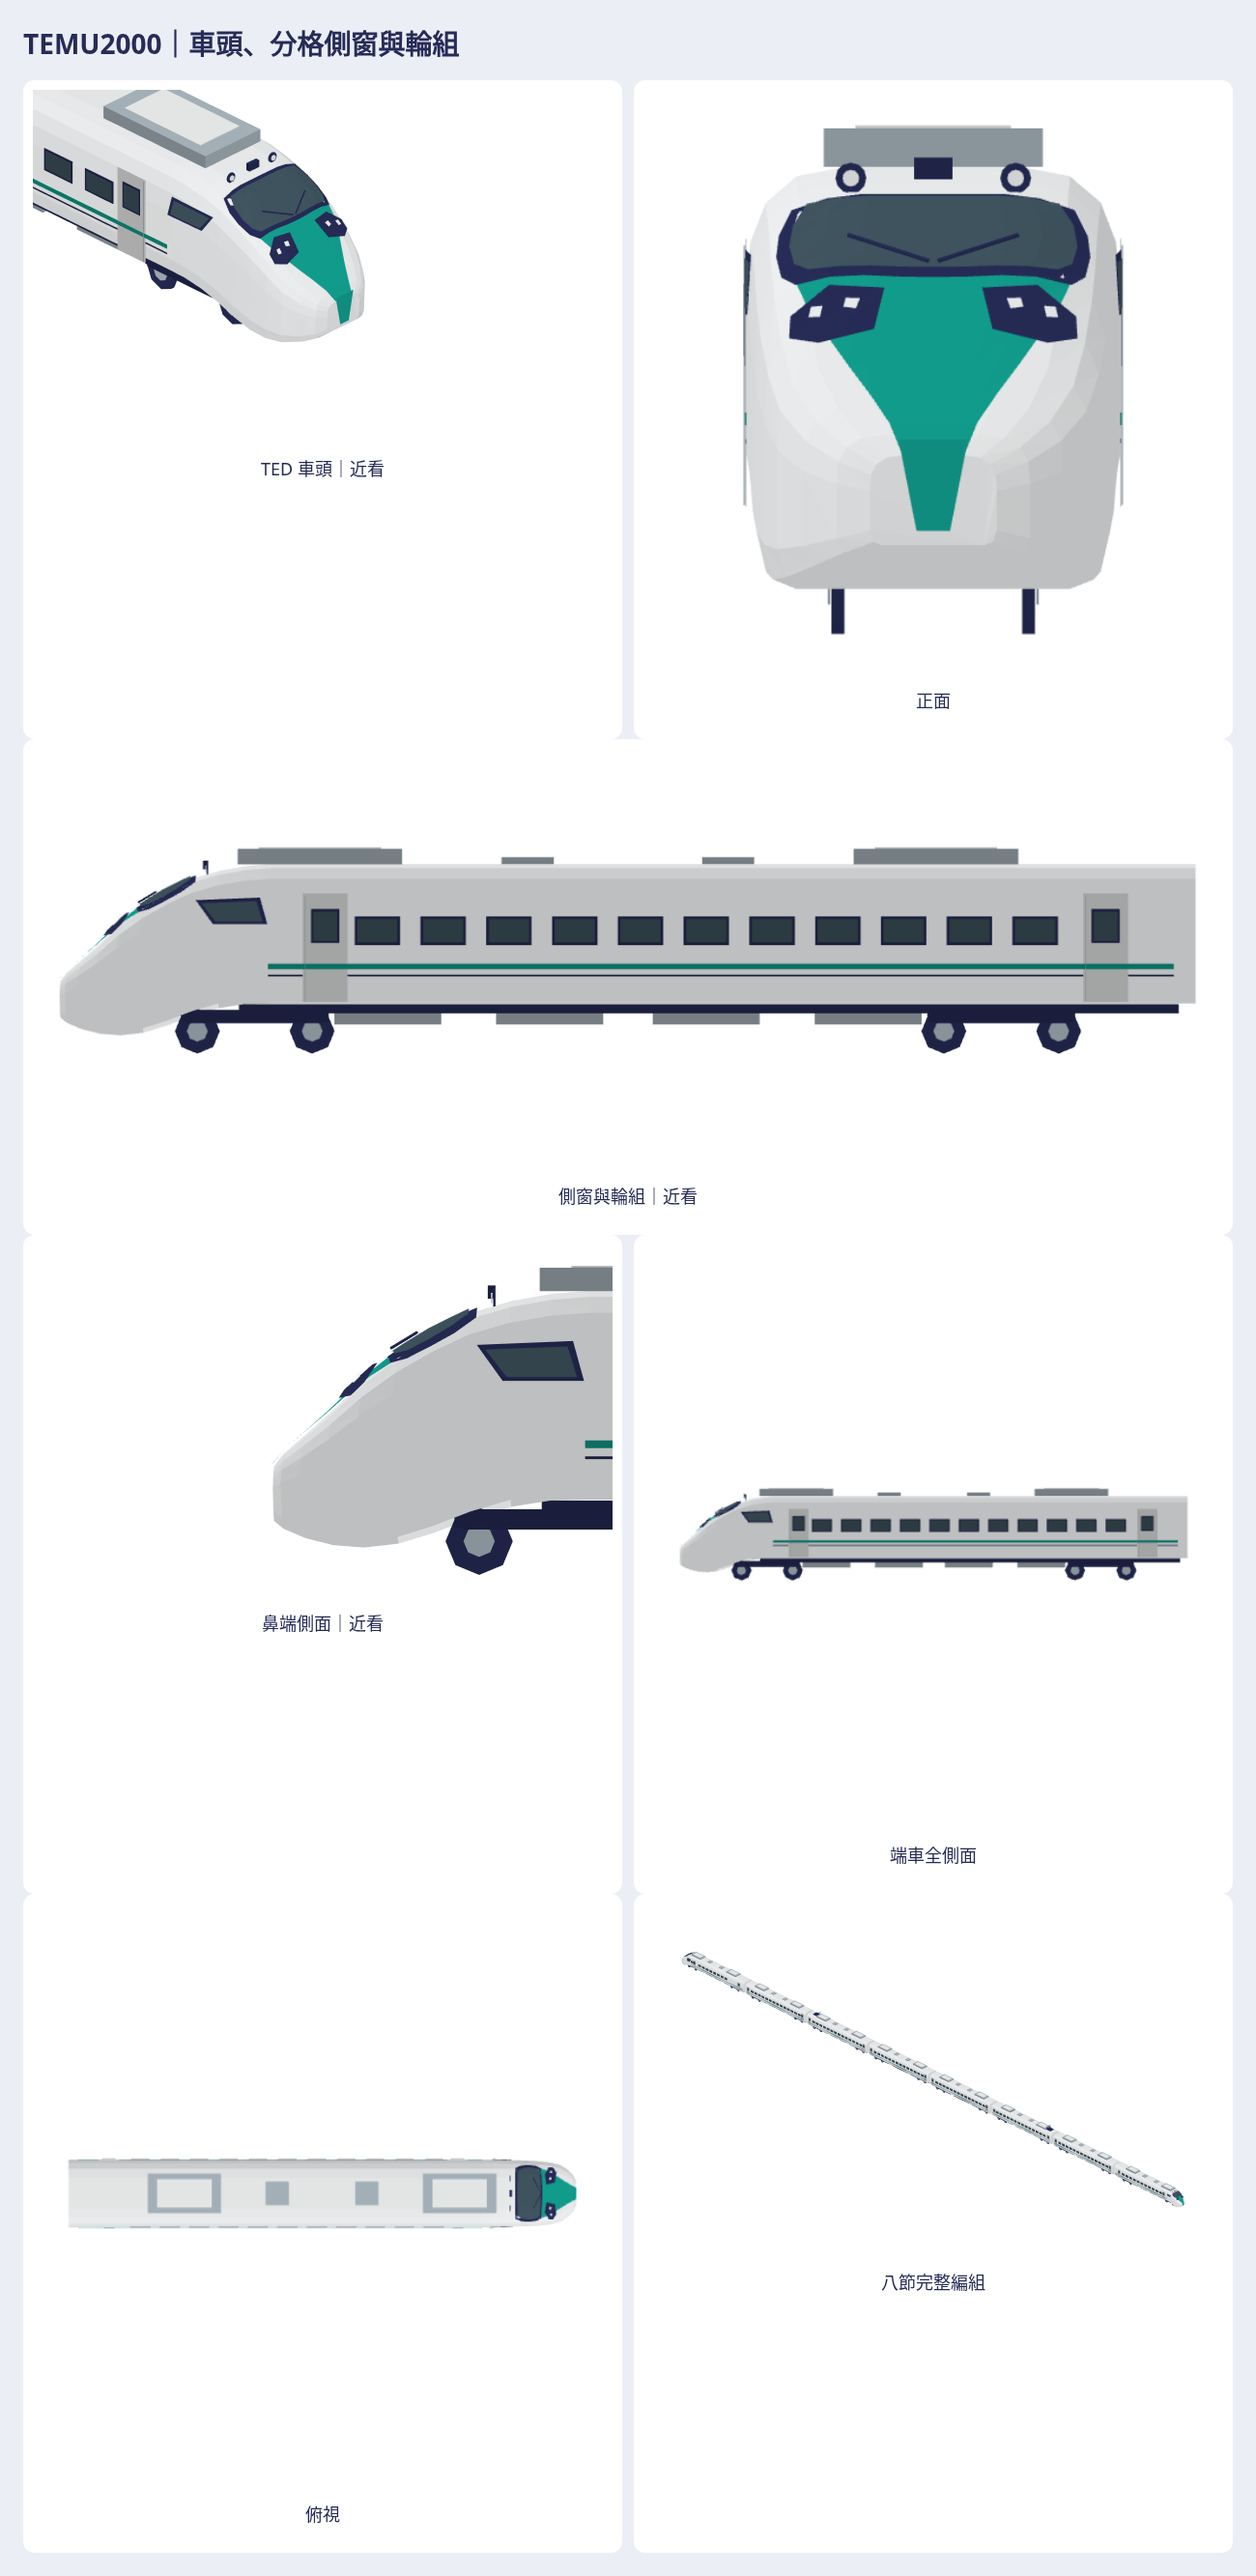
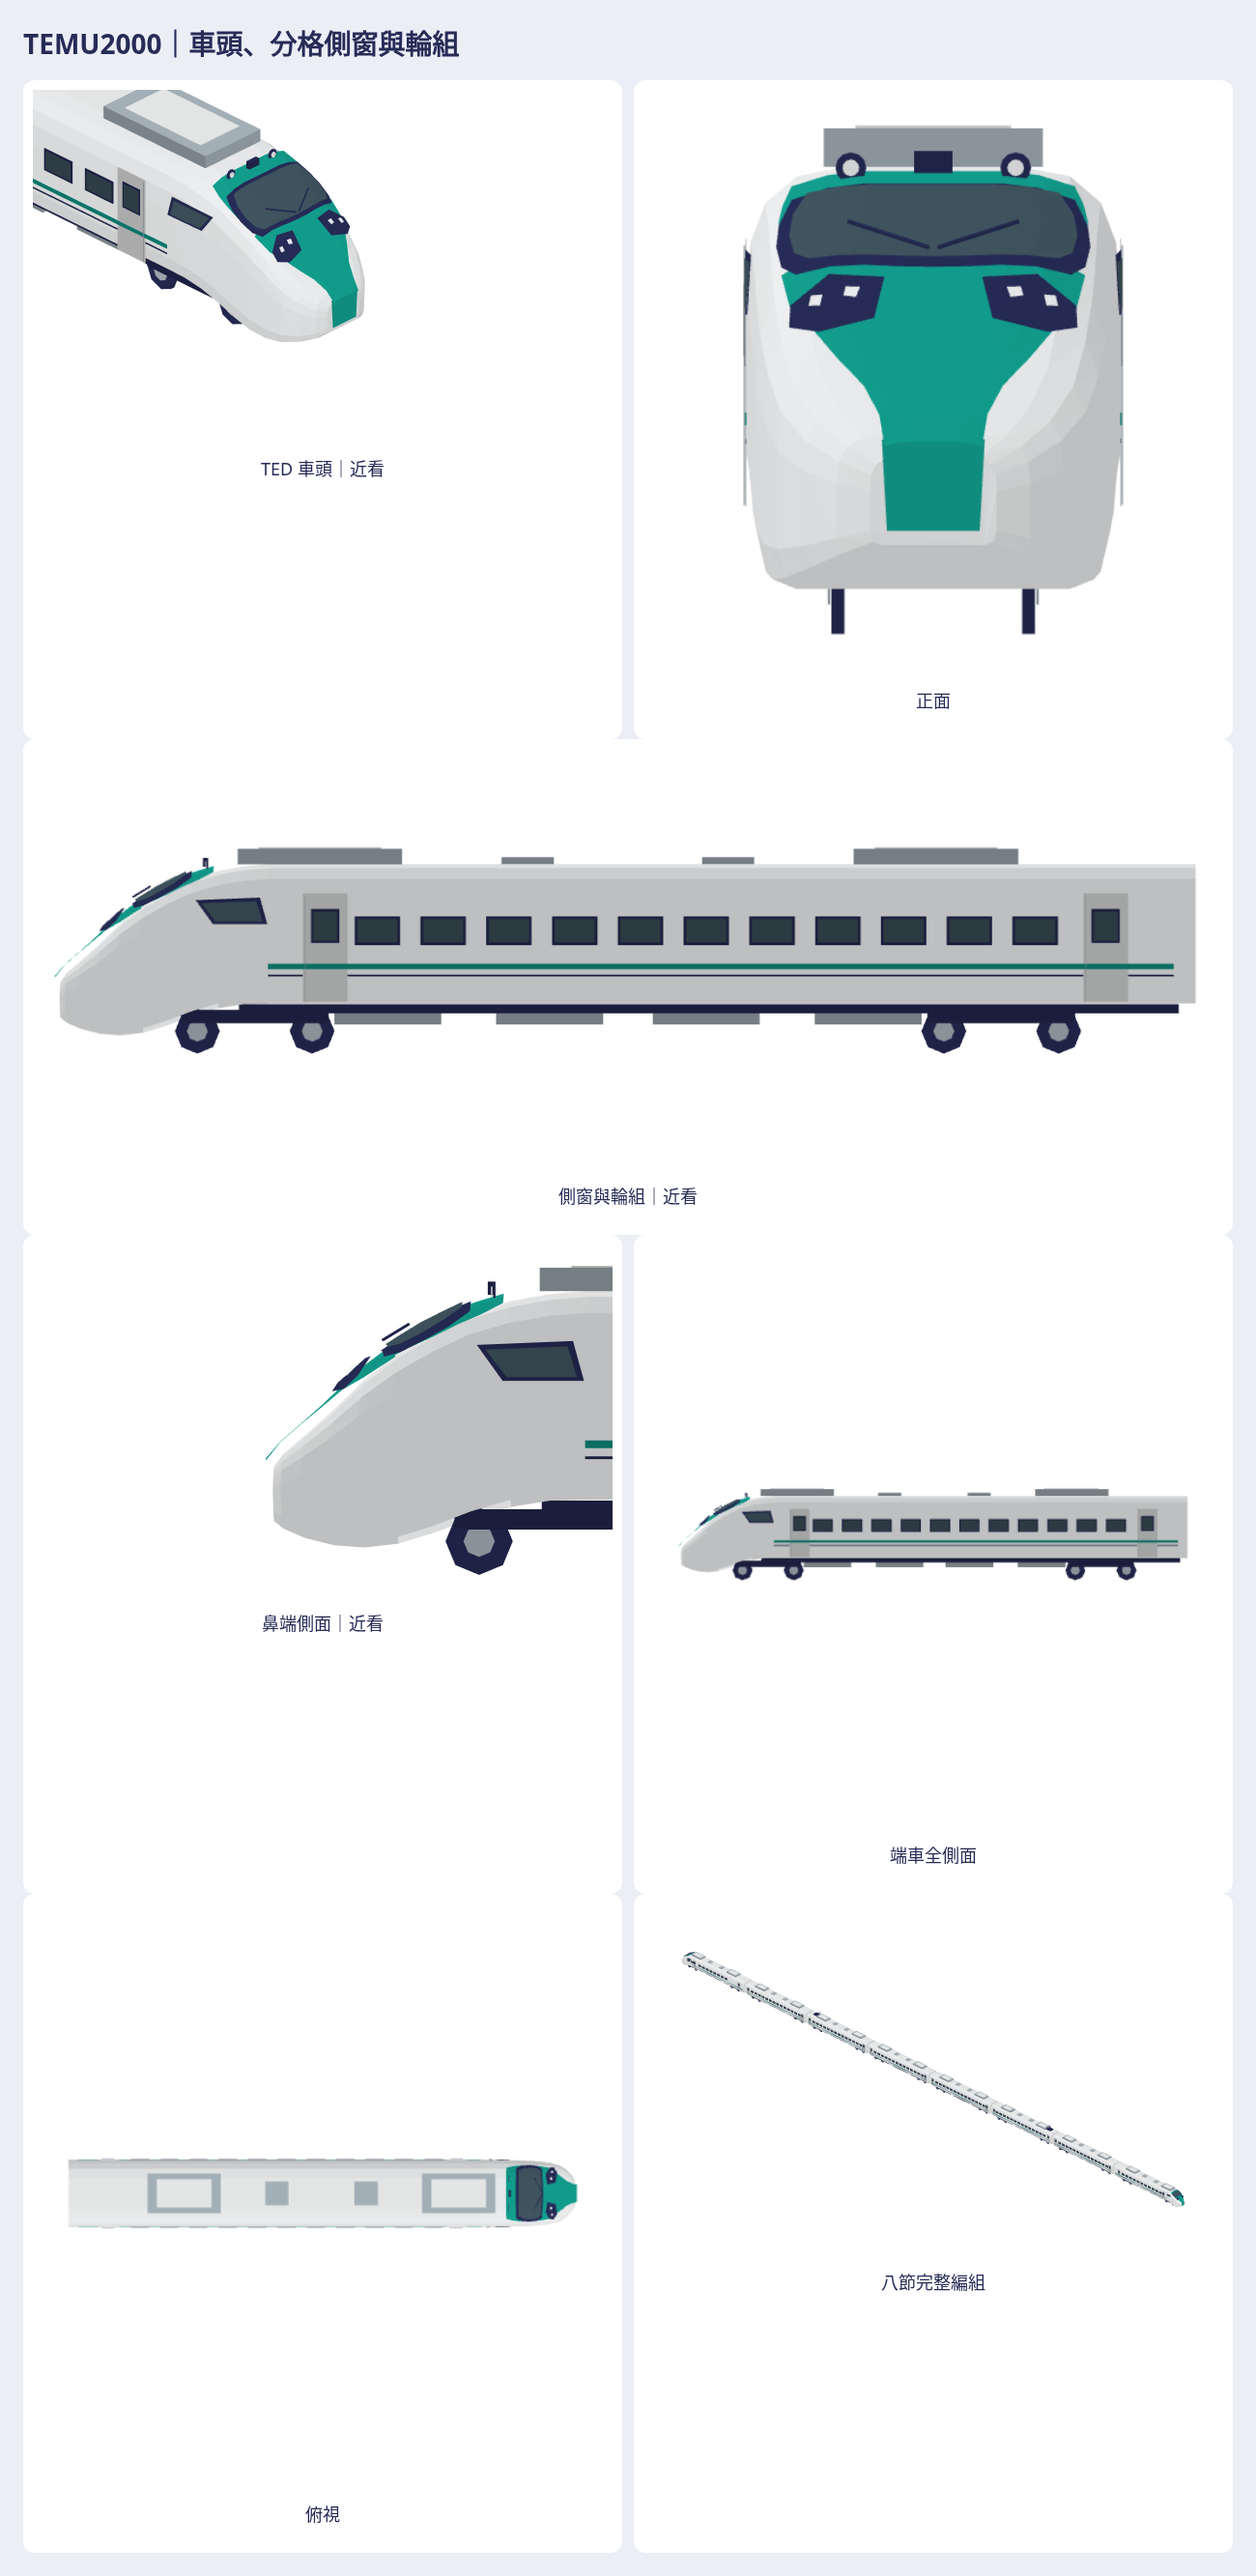
Correct TEMU2000 front livery proportions
Agent: Codex

diff --git a/Sources/GamePresentation/Map3DTEMU2000.swift b/Sources/GamePresentation/Map3DTEMU2000.swift
@@ -259,49 +259,54 @@ extension StationKitBuilder {
                     }
                 }
             }
-            // Broad windshield and a distinct inset pane. The central teal
-            // face narrows to the rounded lower lip; white cheeks remain.
+            // The coloured face surrounds all three upper lamps and the
+            // windshield before narrowing between the white cheeks. The
+            // earlier version started colour below the glass, leaving an
+            // incorrect white forehead in the supplied front views.
+            panel([7.84,8.12,8.40,8.72,9.04,9.33],
+                  [1.10,1.17,1.20,1.20,1.15,1.10],8,teal,0.095)
+            // Broad windshield and a distinct inset pane.
             panel([8.24,8.51,8.80,9.11,9.33],
-                  [1.10,1.20,1.22,1.18,1.07],8,navy,0.035,0.08)
+                  [1.10,1.20,1.22,1.18,1.07],8,navy,0.115,0.08)
             panel([8.33,8.56,8.83,9.10,9.27],
-                  [0.98,1.09,1.12,1.08,0.97],8,glass,0.050,0.06)
-            panel([9.33,9.60,9.88,10.15,10.42,10.68,10.8725],
-                  [1.06,0.98,0.83,0.66,0.49,0.34,0.25],8,teal,0.028)
+                  [0.98,1.09,1.12,1.08,0.97],8,glass,0.135,0.06)
+            panel([9.19,9.60,9.88,10.15,10.42,10.68,10.8725],
+                  [1.18,1.11,0.94,0.75,0.54,0.42,0.38],8,teal,0.103)
             // Carry the tapered centre field down the short blunt end cap.
             // The white cheeks and a slim white lower lip remain visible.
             face([
-                Map3DPoint(cab*10.925,1.51,-0.27),
-                Map3DPoint(cab*10.925,1.51,0.27),
-                Map3DPoint(cab*10.925,0.80,0.13),
-                Map3DPoint(cab*10.925,0.80,-0.13)
+                Map3DPoint(cab*10.925,1.51,-0.40),
+                Map3DPoint(cab*10.925,1.51,0.40),
+                Map3DPoint(cab*10.925,0.80,0.36),
+                Map3DPoint(cab*10.925,0.80,-0.36)
             ],inside:inside,color:teal)
             for side: Float in [-1,1] {
                 let s = side
                 // Swept lamp recesses follow the sloping central panel.
                 face([
-                    roofPoint(9.55,s*0.38,0.065),roofPoint(9.48,s*0.81,0.065),
-                    roofPoint(9.62,s*1.11,0.065),roofPoint(9.79,s*1.12,0.065),
-                    roofPoint(9.97,s*0.89,0.065),roofPoint(9.91,s*0.46,0.065)
+                    roofPoint(9.55,s*0.38,0.150),roofPoint(9.48,s*0.81,0.150),
+                    roofPoint(9.62,s*1.11,0.150),roofPoint(9.79,s*1.12,0.150),
+                    roofPoint(9.97,s*0.89,0.150),roofPoint(9.91,s*0.46,0.150)
                 ],inside:inside,color:navy)
                 face([
-                    roofPoint(9.67,s*0.57,0.079),roofPoint(9.65,s*0.68,0.079),
-                    roofPoint(9.73,s*0.70,0.079),roofPoint(9.76,s*0.60,0.079)
+                    roofPoint(9.67,s*0.57,0.167),roofPoint(9.65,s*0.68,0.167),
+                    roofPoint(9.73,s*0.70,0.167),roofPoint(9.76,s*0.60,0.167)
                 ],inside:inside,color:white)
                 face([
-                    roofPoint(9.69,s*0.86,0.079),roofPoint(9.68,s*0.95,0.079),
-                    roofPoint(9.76,s*0.97,0.079),roofPoint(9.78,s*0.88,0.079)
+                    roofPoint(9.69,s*0.86,0.167),roofPoint(9.68,s*0.95,0.167),
+                    roofPoint(9.76,s*0.97,0.167),roofPoint(9.78,s*0.88,0.167)
                 ],inside:inside,color:white)
-                civicTube(Map3DPoint(cab*8.04,3.54,s*0.64),
-                          Map3DPoint(cab*8.07,3.54,s*0.64),
+                civicTube(Map3DPoint(cab*8.04,3.62,s*0.64),
+                          Map3DPoint(cab*8.07,3.62,s*0.64),
                           radius:0.12,color:navy,sides:12)
-                civicTube(Map3DPoint(cab*8.08,3.54,s*0.64),
-                          Map3DPoint(cab*8.10,3.54,s*0.64),
+                civicTube(Map3DPoint(cab*8.08,3.62,s*0.64),
+                          Map3DPoint(cab*8.10,3.62,s*0.64),
                           radius:0.065,color:white,sides:12)
             }
-            box(cab*8.09,3.53,0,0.10,0.30,0.17,navy)
+            box(cab*8.09,3.58,0,0.10,0.30,0.17,navy)
             for side: Float in [-1,1] {
-                civicTube(roofPoint(9.30,side*0.04,0.075),
-                          roofPoint(8.97,side*0.66,0.075),
+                civicTube(roofPoint(9.30,side*0.04,0.180),
+                          roofPoint(8.97,side*0.66,0.180),
                           radius:0.018,color:navy,sides:6)
             }
         }

diff --git a/docs/art/temu2000-2026-10-26/README.md b/docs/art/temu2000-2026-10-26/README.md
@@ -31,18 +31,18 @@
 
 配方是 [Map3DTEMU2000.swift](../../../Sources/GamePresentation/Map3DTEMU2000.swift)，重建命令與獨立檢查在 [tools/temu2000/README.md](../../../tools/temu2000/README.md)。依 [原生車輛製作手冊](../native-vehicle-modeling/README.md)先檢查白模及剪影的側、正、俯、斜視，再看門窗、輪組和設備；有修訂時保留真正前版模型，以相同相機及公尺尺度重渲前後對照。外觀結論用「已符合／仍不符合／資料不足」逐項記錄，技術檢查通過不等於外觀驗收。
 
-### 最終 V7 原生外觀驗收
+### 最終 V11 原生外觀驗收
 
-已親自查看最終原生正、側、俯、斜視、白模與剪影。V1 前擋風埋在殼內；V2 露出但偏窄；V3 擴大玻璃；V4 加寬橫向燈座；V4 的外掛下裙板形成方台階，V5 改由車頭殼底斷面連續下收；V6–V7 把綠松色主面接至下唇。私包 `history/v1/` 至 `history/v6/` 保存真前版原生模型與配方；`previews/before-after.png` 比較真正緊鄰前版 V6 與 V7，使用相同相機與公尺尺度，`before-after-v5-v7.png` 另示主要下緣修改。全部最終視圖皆由同一份 V7 原生模型生成。
+已親自查看最終原生正、側、俯、斜視、白模與剪影。V1 前擋風埋在殼內；V2 露出但偏窄；V3 擴大玻璃；V4 加寬橫向燈座；V4 的外掛下裙板形成方台階，V5 改由車頭殼底斷面連續下收；V6–V7 把綠松色主面接至下唇；使用者再次指出正面塗裝誤差後，V8–V11 把主色延伸到三個上燈與風擋周圍、修掉玻璃旁白色破口，並加寬下緣色面而保留白頰。私包 `history/v1/` 至 `history/v10/` 保存真前版原生模型與配方；`previews/before-after.png` 比較真正緊鄰前版 V10 與 V11，使用相同相機與公尺尺度，`before-after-v7-v11.png` 另示使用者指正前後。全部最終視圖皆由同一份 V11 原生模型生成。
 
 | 狀態 | 項目與實際觀察 |
 | --- | --- |
-| 已符合 | 車頭長緩斜側影、正面寬肩下收與連續圓鈍下緣；風擋寬扁、三個上燈、兩組橫向下燈座及白色頰部可辨。客窗各片獨立、門及兩組雙軸輪架、TEP 集電弓與 TED–TEMA–TEP–TEMB–TEMB–TEP–TEMA–TED 編組可辨。第二個 TEP 朝車 8 旋轉。白殼／綠松／藏青霧面配色沒有紅色或商標。 |
+| 已符合 | 車頭長緩斜側影、正面寬肩下收與連續圓鈍下緣；風擋寬扁、三個上燈、兩組橫向下燈座及白色頰部可辨。客窗各片獨立、門及兩組雙軸輪架、TEP 集電弓與 TED–TEMA–TEP–TEMB–TEMB–TEP–TEMA–TED 編組可辨。第二個 TEP 朝車 8 旋轉。白殼／綠松／藏青霧面配色沒有紅色或商標；正面主色現在包住三上燈、風擋和下燈座，往下收成較寬的鼻端色帶。 |
 | 仍不符合 | 車頂空調罩仍偏盒狀；駕駛側窗偏小，燈內構與轉向架/車底設備比照片簡化；正面可見短段車輪邊緣。綠松鼻面端蓋有細色階接點，未達實車完整曲面與分色精度。這是遊戲尺度造型，不宣稱作者已認可。 |
 | 資料不足 | 另一側門窗與隱藏設備、TEMA/TEMB 精確差異，以及窗、燈座、空調、鼻端各斷面尺寸。四張附件在對話內逐張目視，但沒有本機原檔和 SHA；圖像比例一律是「比例推估」。 |
 
 ### 交付與驗證
 
-五種單元加單檔八節原生模型；全編組 14,580 三角形（M3DM 上限 15,000），輪底 Z=0，TEP 設備頂 4.298 m。七件模型包含僅供霧面風格比較的 TEMU1000 端車，各有七向透明 PNG，共 49 張；另有 GLB、總覽、白模／剪影、同公尺尺度比較及可旋轉縮放下載的 viewer。**VERIFIED**：Swift 6.4 warnings-as-errors build、10 項相關 XCTest；M3DM 讀回、法線、八車逐頂點/法線組裝、輪底、GLB 轉檔與 Blender 讀回、49 張 PNG 解碼/透明/邊界、Chromium viewer 的七視、旋轉、縮放和下載。ZIP 逐檔與最新 CI 依 PR 最新提交記錄。**UNVERIFIED**：營運 `puyuma` 接入、真機 Metal、效能、動畫及完整碰撞採樣。
+五種單元加單檔八節原生模型；全編組 14,740 三角形（M3DM 上限 15,000），輪底 Z=0，TEP 設備頂 4.298 m。七件模型包含僅供霧面風格比較的 TEMU1000 端車，各有七向透明 PNG，共 49 張；另有 GLB、總覽、白模／剪影、同公尺尺度比較及可旋轉縮放下載的 viewer。**VERIFIED**：Swift 6.4 warnings-as-errors build、10 項相關 XCTest；M3DM 讀回、法線、八車逐頂點/法線組裝、輪底、GLB 轉檔與 Blender 讀回、49 張 PNG 解碼/透明/邊界、Chromium viewer 的七視、旋轉、縮放和下載。ZIP 逐檔與最新 CI 依 PR 最新提交記錄。**UNVERIFIED**：營運 `puyuma` 接入、真機 Metal、效能、動畫及完整碰撞採樣。
 
 公開 [總覽](overview.png) 與私包 `previews/overview.png` 使用同一檔案；私有 PR 包含完整素材、來源/SHA 與 ZIP。重建步驟見 [工具說明](../../../tools/temu2000/README.md)。

diff --git a/docs/HANDOFF.md b/docs/HANDOFF.md
@@ -1713,4 +1713,4 @@ TEMU1000 原生外形（Codex，issue #1228，公開 draft #1230／私庫 draft 
 
 ### 2026-10-26 Codex TEMU2000 native static asset (#1281)
 
-`codex/temu2000-native-2026-10-26` adds a new Swift recipe, static model registration, rebuild tools/tests and one overview. It uses five distinct units in the sourced eight-car TED–TEMA–TEP–TEMB–TEMB–TEP–TEMA–TED order; car 6's TEP is reversed so its pantograph points toward car 8. The complete M3DM assembly is 14,580 triangles. Four user images were individually viewed in the conversation; no local originals/SHA exist. V1–V6 genuine models, final M3DM/GLB/49 seven-direction PNGs, clay/silhouette, matched metre-scale comparisons, viewer and ZIP are in the linked private draft PR. See [production record](art/temu2000-2026-10-26/README.md). This is static model registration only: operating `puyuma`, GameCore, saves and fixtures are unchanged. Linux Swift 6.4 warnings-as-errors and 10 relevant tests plus native/GLB/PNG/viewer checks passed locally; ZIP and CI status belong to the latest PR head. Simulator, device Metal, performance, animation and gameplay integration remain unverified. Neither draft PR authorizes merge, auto-merge or TestFlight.
+`codex/temu2000-native-2026-10-26` adds a new Swift recipe, static model registration, rebuild tools/tests and one overview. It uses five distinct units in the sourced eight-car TED–TEMA–TEP–TEMB–TEMB–TEP–TEMA–TED order; car 6's TEP is reversed so its pantograph points toward car 8. The final V11 M3DM assembly is 14,740 triangles. Four user images were individually viewed in the conversation; no local originals/SHA exist. V1–V10 genuine models, final M3DM/GLB/49 seven-direction PNGs, clay/silhouette, matched metre-scale comparisons, viewer and ZIP are in the linked private draft PR. See [production record](art/temu2000-2026-10-26/README.md). This is static model registration only: operating `puyuma`, GameCore, saves and fixtures are unchanged. Linux Swift 6.4 warnings-as-errors and 10 relevant tests plus native/GLB/PNG/viewer checks passed locally; ZIP and CI status belong to the latest PR head. Simulator, device Metal, performance, animation and gameplay integration remain unverified. Neither draft PR authorizes merge, auto-merge or TestFlight.
